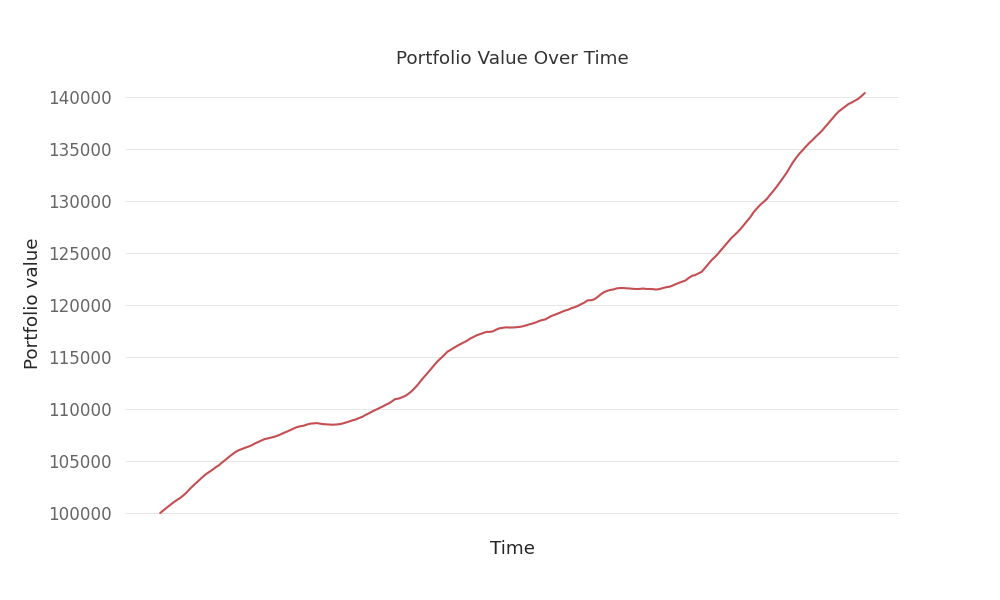
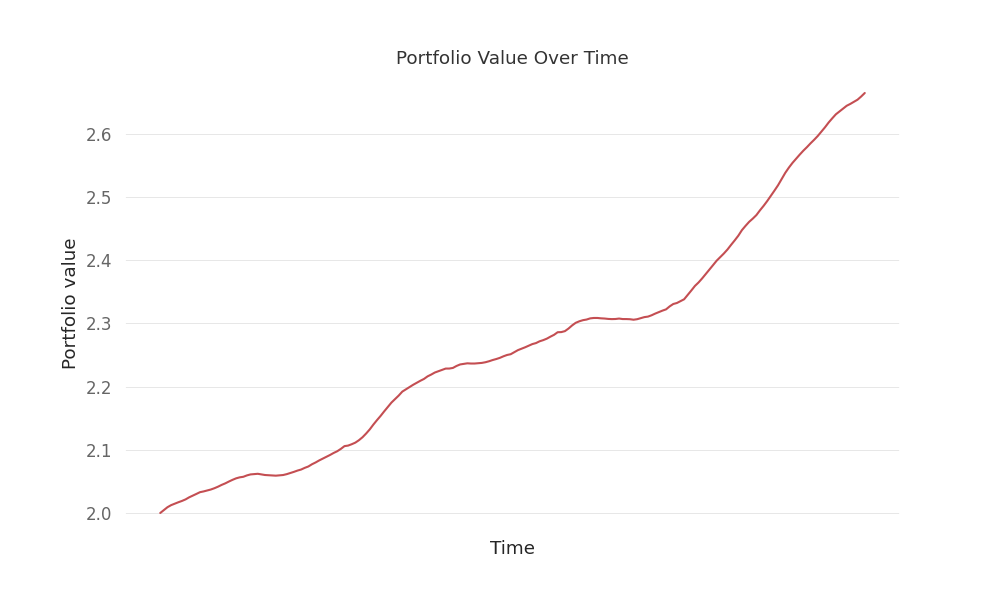
commit all

diff --git a/solutions/GraphPortfolioManagement/test.py b/solutions/GraphPortfolioManagement/test.py
@@ -6,8 +6,9 @@ from torch_geometric.utils import k_hop_subgraph
 from finrl.meta.env_portfolio_optimization.env_portfolio_optimization import PortfolioOptimizationEnv
 from finrl.agents.portfolio_optimization.models import DRLAgent
 from finrl.agents.portfolio_optimization.architectures import GPM
+import time
 
-def test():
+def test(initial_amount=10000):
     device = 'cuda:0' if torch.cuda.is_available() else 'cpu'
 
     nasdaq_temporal = pd.read_csv("Temporal_Relational_Stock_Ranking_FinRL/temporal_data/NASDAQ_temporal_data.csv")
@@ -43,10 +44,10 @@ def test():
 
     df_portfolio = nasdaq_temporal[["day", "tic", "close", "high", "low"]]
     df_portfolio_train = df_portfolio[df_portfolio["day"] < 979]
-    df_portfolio_test = df_portfolio[df_portfolio["day"] >= 979]
+    df_portfolio_test = df_portfolio[df_portfolio["day"] >= 1000]
     environment_train = PortfolioOptimizationEnv(
             df_portfolio_train,
-            initial_amount=100000,
+            initial_amount=initial_amount,
             comission_fee_pct=0.0025,
             time_window=50,
             features=["close", "high", "low"],
@@ -56,7 +57,7 @@ def test():
         )
     environment_test = PortfolioOptimizationEnv(
                 df_portfolio_test,
-                initial_amount=100000,
+                initial_amount=initial_amount,
                 comission_fee_pct=0.0025,
                 time_window=50,
                 features=["close", "high", "low"],
@@ -107,15 +108,20 @@ def test():
     UBAH_results["test"] = environment_test._asset_memory["final"]
 
 
-    plt.plot(UBAH_results["test"], label="Buy and Hold")
-    plt.plot(GPM_results["test"], label="GPM")
+    fig, ax = plt.subplots()
+    ax.plot(UBAH_results["test"], label="Buy and Hold")
+    ax.plot(GPM_results["test"], label="GPM")
 
-    plt.xlabel("Days")
-    plt.ylabel("Portfolio Value")
-    plt.title("Performance in testing period")
-    plt.legend()
+    ax.set_xlabel("Days")
+    ax.set_ylabel("Portfolio Value")
+    ax.set_title("Portfolio value evolution")
+    ax.legend()
 
-    plt.savefig('plots/result_GPM.jpg')
+    fig.savefig('plots/result_GPM.jpg')
+    return fig
 
 if __name__ == '__main__':
+    start_time = time.time()
     test()
+    duration = time.time()-start_time
+    print(duration)

diff --git a/solutions/GraphPortfolioManagement/app.py b/solutions/GraphPortfolioManagement/app.py
@@ -1,20 +1,22 @@
 import streamlit as st
-from solutions.GraphPortfolioManagement.test import test
+from test import test
 from PIL import Image
+import plotly.tools as tls
 
 def predict(initial_amount, num_weeks):
     #return f"Prediction for {num_weeks} week(s)"
-    test(initial_amount)
+    return test(initial_amount)
 
 def main():
     st.title("Financial copilot")
     
+    initial_amount = st.number_input("Enter an integer:", min_value=1000, max_value=1000000, step=1000, value=10000)
     num_weeks = st.slider("Select number of testing weeks", min_value=2, max_value=8, value=2)
     
     if st.button("Test"):
-        predict(num_weeks, 10000)
-        image = Image.open('plots.result_GPM.jpg')
-        st.image(image, caption='Portfolio value evolution')
+        graph = predict(initial_amount, num_weeks)
+        plotly_fig = tls.mpl_to_plotly(graph)
+        st.pyplot(plotly_fig)
 
 if __name__ == "__main__":
     main()

diff --git a/solutions/GraphPortfolioManagement/app_test.py b/solutions/GraphPortfolioManagement/app_test.py
@@ -1,0 +1,24 @@
+import streamlit as st
+import plotly.graph_objs as go
+import pandas as pd
+import numpy as np
+
+st.title("Test app")
+# Sample data
+days = np.linspace(0, 100, 11).astype(int)
+values = np.sin(days)
+# Create a Plotly figure
+fig = go.Figure()
+
+fig.add_trace(go.Scatter(x=days, y=values, mode='lines+markers', name='Values'))
+
+# Show the plot in Streamlit
+st.plotly_chart(fig)
+
+# Displaying clicked point's value
+selected_point = st.selectbox('Select a day:', days)
+
+if selected_point:
+    index = (days == selected_point).argmax()
+    value = values[index]
+    st.write(f'Value on {selected_point}: {value}')
